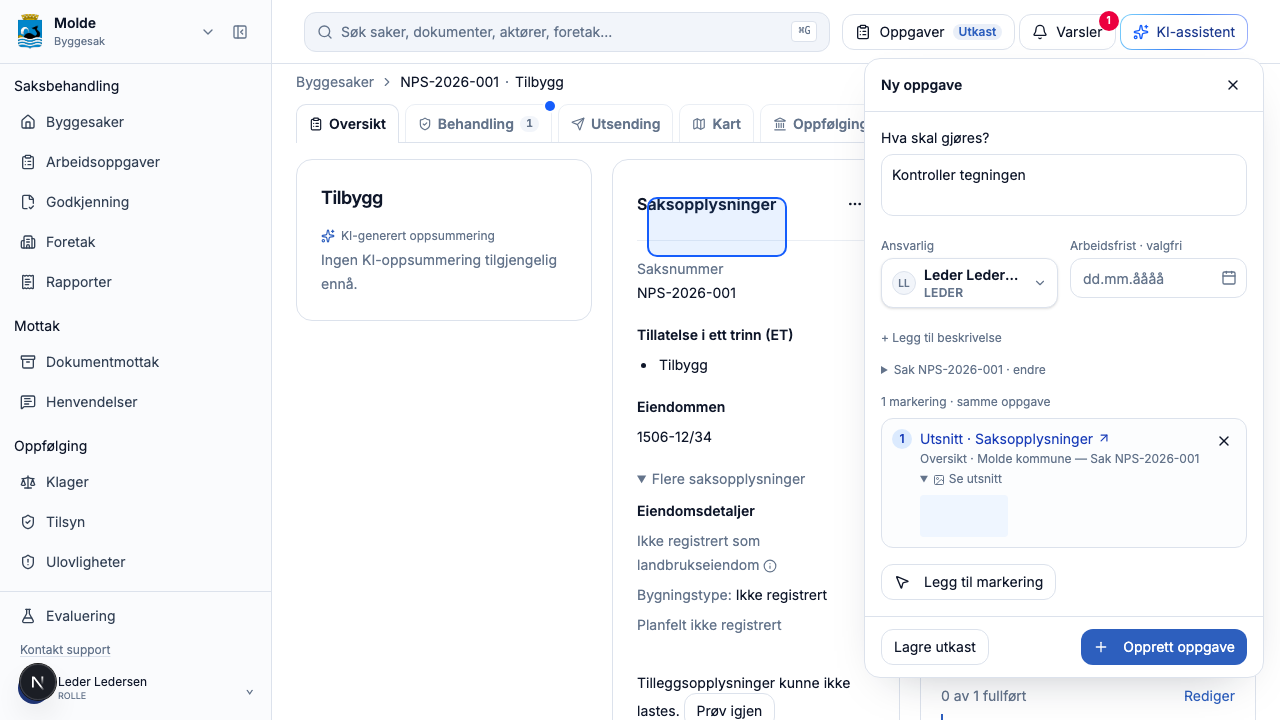
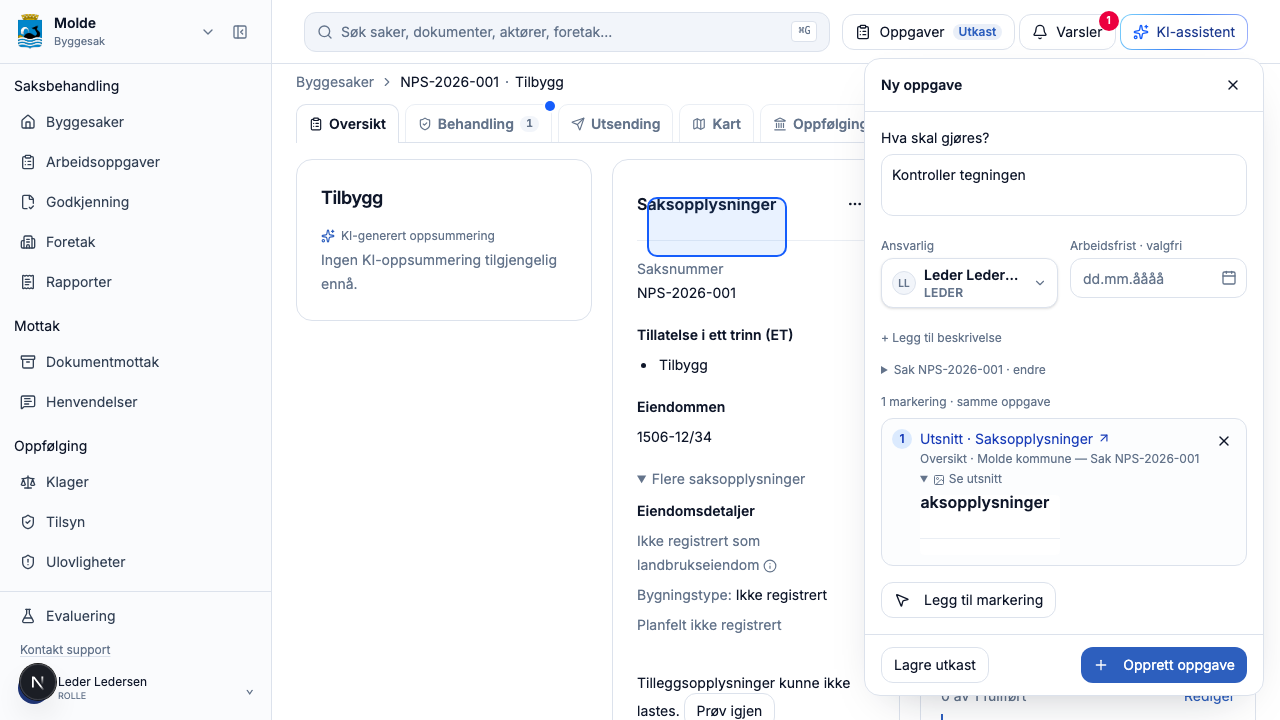
Show permissionless task region capture

Changed region(s): [[0.6875, 0.7944, 1.0, 0.9778], [0.7188, 0.6722, 0.8125, 0.7028]]

diff --git a/pr-2982/2026-10-14/README.md b/pr-2982/2026-10-14/README.md
@@ -2,7 +2,7 @@
 
 40 skjermbilder av funksjonene i PR #2982, tatt 14. oktober 2026 i den faktiske Kommune-appen med syntetiske testdata. App-kode: `6103c5df655659bb276f4514e6f51dcfac984d57`. Listeoversikt og filterbildet er oppdatert etter kolonnerettingen i `de560397422d5f69ed748fe9601ad9263a6f31ac`. Standardbredde 1440 px; responsive eksempler ved 1600, 1100 og 390 px.
 
-Noen bakgrunnskort viser manglende tilleggsdata fordi testoppsettet ikke simulerer alle eksterne oppslag. Bildene dokumenterer grensesnittet, ikke live-integrasjoner eller produksjonsklarhet. Bildeutsnittet bruker en syntetisk bildestrøm. Ingen ekte saks- eller persondata er publisert.
+Noen bakgrunnskort viser manglende tilleggsdata fordi testoppsettet ikke simulerer alle eksterne oppslag. Bildene dokumenterer grensesnittet, ikke live-integrasjoner eller produksjonsklarhet. Utsnitt gjengis fra appens innhold uten skjermdeling. Ingen ekte saks- eller persondata er publisert.
 
 ## Liste, kalender og saksfrister
 
@@ -152,7 +152,7 @@ I samme markeringsmodus velger et klikk innhold, mens et drag tegner området so
 
 ### Utsnitt i oppgaven
 
-Utsnittet legges automatisk til sammen med øvrige markeringer. Klikk på lenken for å gå tilbake og fremheve området. Bildet her kommer fra en syntetisk bildestrøm; nettleserens fanedeling krever brukerens valg.
+Utsnittet gjengis direkte fra appens innhold, uten skjermdeling eller tillatelsesdialog. Klikk på lenken for å gå tilbake og fremheve området. Bildet viser faktisk tekst fra det valgte området med syntetiske saksdata.
 
 ![Utsnitt i oppgaven](16-image-attached.png)
 
